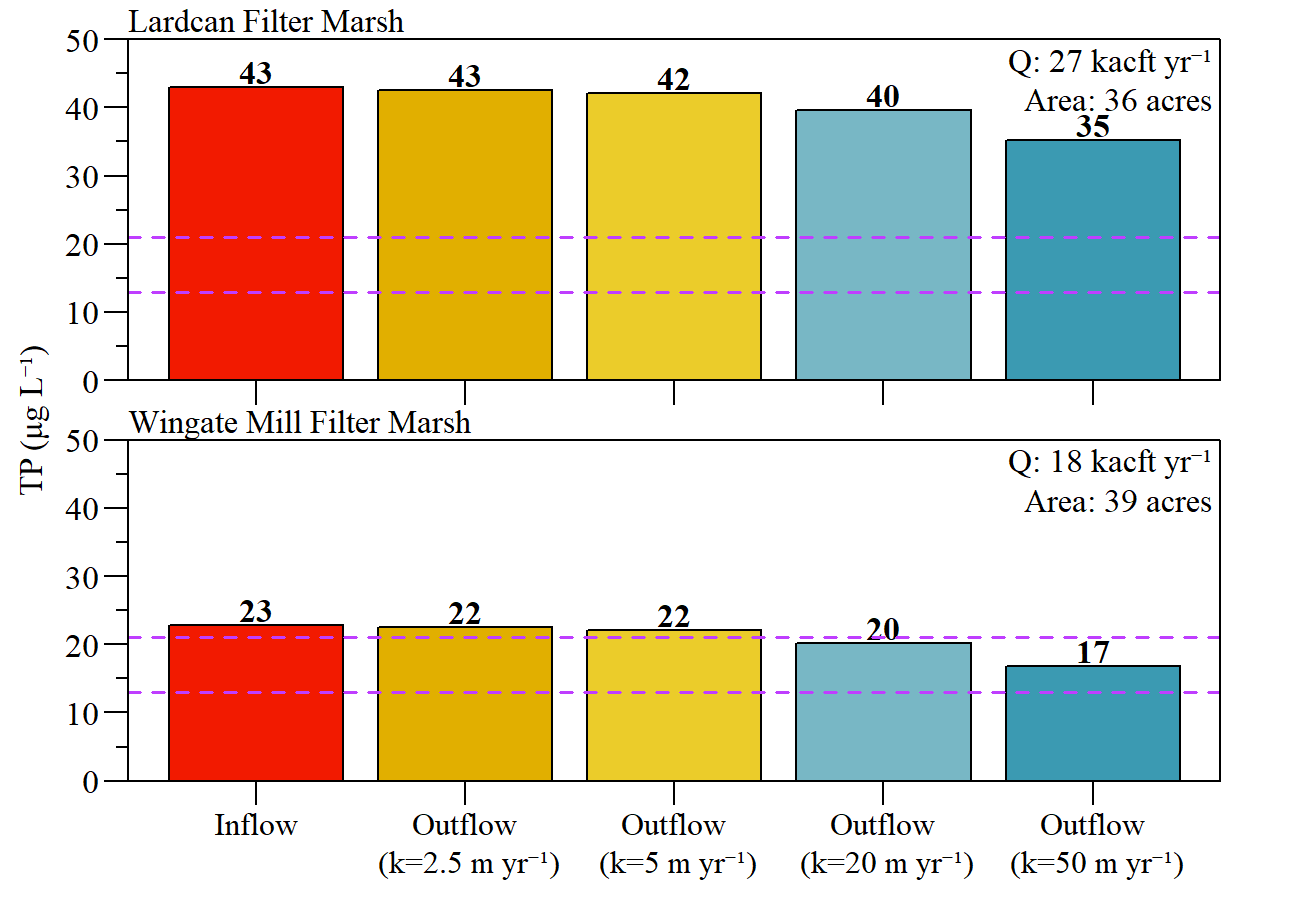
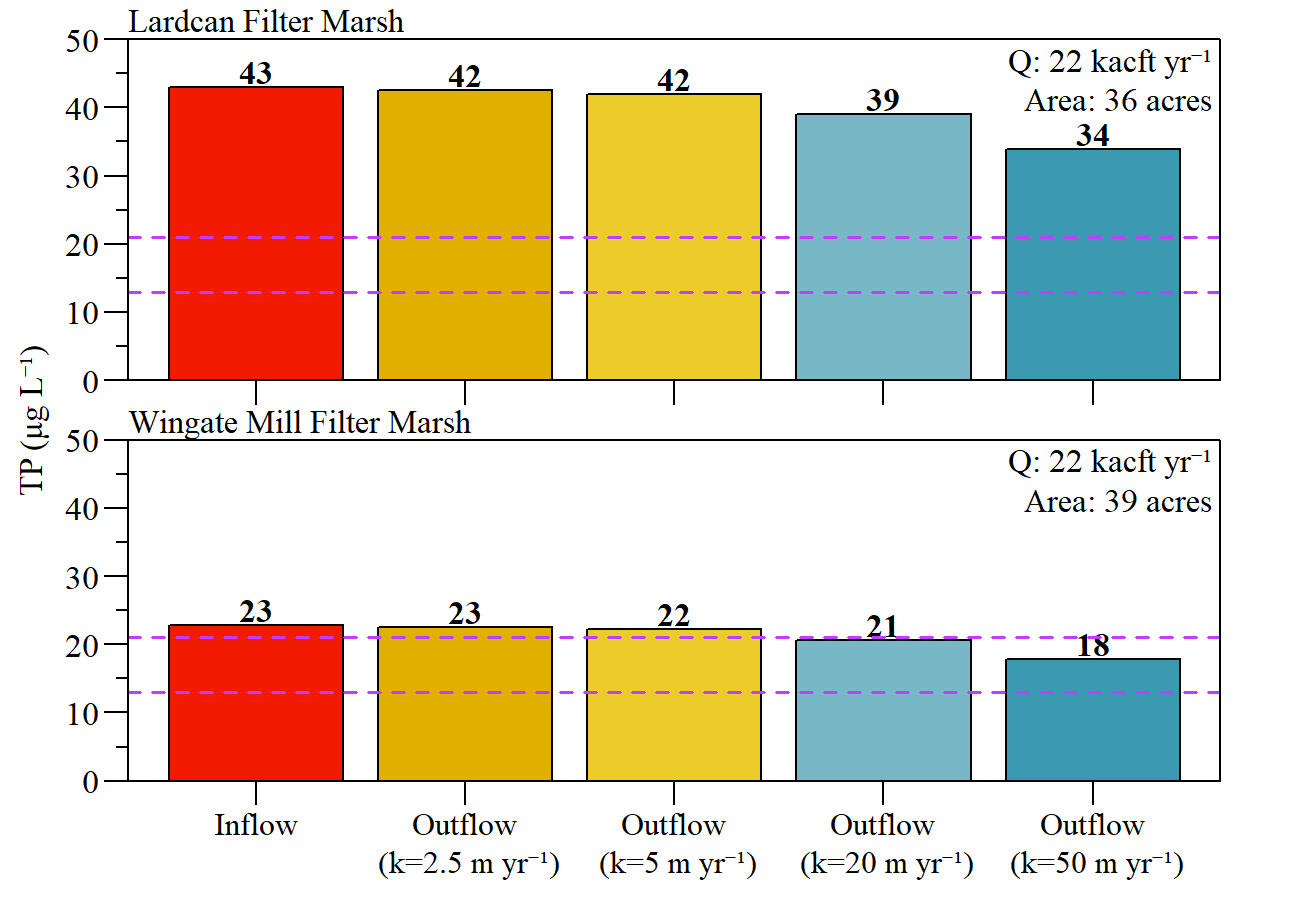
minor change

diff --git a/slides/20230117_WERP_Listening.html b/slides/20230117_WERP_Listening.html
@@ -39,7 +39,7 @@ class: left, middle
 
 *Conservancy of Southwest Florida*
 
-December 09, 2022 &lt;br&gt;(Updated: December 19, 2022 )
+December 09, 2022 &lt;br&gt;(Updated: December 20, 2022 )
 
 ]
 &lt;!-- this ends up being the title slide since seal = FALSE--&gt;
@@ -83,7 +83,7 @@ name: WFEEDERWQ
 * As detailed in *"Numeric Interpretation of Narrative Standards for the L-28 Interceptor Canal and Big Cypress National Preserve."* &lt;sup&gt;1&lt;/sup&gt; a numeric interpretation of the narrative water quality standard was developed for WERP to be protective of the downstream OFW (Big Cypress National Preserve).
 
 
-&lt;template id="f0b84952-d7ed-46c0-8ea0-a3a175d5d657"&gt;&lt;style&gt;
+&lt;template id="ba38e0f5-f11f-4750-94a1-c206eee9b0aa"&gt;&lt;style&gt;
 .tabwid table{
   border-collapse:collapse;
   line-height:1;
@@ -117,11 +117,11 @@ name: WFEEDERWQ
 .tabwid table tr {
 background-color: transparent;
 }
-&lt;/style&gt;&lt;div class="tabwid"&gt;&lt;style&gt;.cl-82f819e8{border-collapse:collapse;}.cl-82efd7b0{font-family:'Times New Roman';font-size:12pt;font-weight:normal;font-style:normal;text-decoration:none;color:rgba(0, 0, 0, 1.00);background-color:transparent;}.cl-82efd7b1{font-family:'Times New Roman';font-size:11pt;font-weight:normal;font-style:normal;text-decoration:none;color:rgba(0, 0, 0, 1.00);background-color:transparent;}.cl-82efd7b2{font-family:'Times New Roman';font-size:6.6pt;font-weight:normal;font-style:normal;text-decoration:none;color:rgba(0, 0, 0, 1.00);background-color:transparent;position: relative;bottom:3.3pt;}.cl-82efd7b3{font-family:'Arial';font-size:6.6pt;font-weight:normal;font-style:normal;text-decoration:none;color:rgba(0, 0, 0, 1.00);background-color:transparent;position: relative;bottom:3.3pt;}.cl-82efd7b4{font-family:'Arial';font-size:11pt;font-weight:normal;font-style:normal;text-decoration:none;color:rgba(0, 0, 0, 1.00);background-color:transparent;}.cl-82effed4{margin:0;text-align:left;border-bottom: 0 solid rgba(0, 0, 0, 1.00);border-top: 0 solid rgba(0, 0, 0, 1.00);border-left: 0 solid rgba(0, 0, 0, 1.00);border-right: 0 solid rgba(0, 0, 0, 1.00);padding-bottom:1.5pt;padding-top:1.5pt;padding-left:1.5pt;padding-right:1.5pt;line-height: 1;background-color:transparent;}.cl-82effed5{margin:0;text-align:center;border-bottom: 0 solid rgba(0, 0, 0, 1.00);border-top: 0 solid rgba(0, 0, 0, 1.00);border-left: 0 solid rgba(0, 0, 0, 1.00);border-right: 0 solid rgba(0, 0, 0, 1.00);padding-bottom:1.5pt;padding-top:1.5pt;padding-left:1.5pt;padding-right:1.5pt;line-height: 1;background-color:transparent;}.cl-82effed6{margin:0;text-align:left;border-bottom: 0 solid rgba(0, 0, 0, 1.00);border-top: 0 solid rgba(0, 0, 0, 1.00);border-left: 0 solid rgba(0, 0, 0, 1.00);border-right: 0 solid rgba(0, 0, 0, 1.00);padding-bottom:1.5pt;padding-top:1.5pt;padding-left:1.5pt;padding-right:1.5pt;line-height: 1;background-color:transparent;}.cl-82effed7{margin:0;text-align:center;border-bottom: 0 solid rgba(0, 0, 0, 1.00);border-top: 0 solid rgba(0, 0, 0, 1.00);border-left: 0 solid rgba(0, 0, 0, 1.00);border-right: 0 solid rgba(0, 0, 0, 1.00);padding-bottom:1.5pt;padding-top:1.5pt;padding-left:1.5pt;padding-right:1.5pt;line-height: 1;background-color:transparent;}.cl-82effed8{margin:0;text-align:left;border-bottom: 0 solid rgba(0, 0, 0, 1.00);border-top: 0 solid rgba(0, 0, 0, 1.00);border-left: 0 solid rgba(0, 0, 0, 1.00);border-right: 0 solid rgba(0, 0, 0, 1.00);padding-bottom:5pt;padding-top:5pt;padding-left:5pt;padding-right:5pt;line-height: 1;background-color:transparent;}.cl-82f02684{width:54pt;background-color:transparent;vertical-align: bottom;border-bottom: 0 solid rgba(0, 0, 0, 1.00);border-top: 0 solid rgba(0, 0, 0, 1.00);border-left: 0 solid rgba(0, 0, 0, 1.00);border-right: 0 solid rgba(0, 0, 0, 1.00);margin-bottom:0;margin-top:0;margin-left:0;margin-right:0;}.cl-82f02685{width:108pt;background-color:transparent;vertical-align: bottom;border-bottom: 0 solid rgba(0, 0, 0, 1.00);border-top: 0 solid rgba(0, 0, 0, 1.00);border-left: 0 solid rgba(0, 0, 0, 1.00);border-right: 0 solid rgba(0, 0, 0, 1.00);margin-bottom:0;margin-top:0;margin-left:0;margin-right:0;}.cl-82f02686{width:54pt;background-color:transparent;vertical-align: bottom;border-bottom: 2pt solid rgba(102, 102, 102, 1.00);border-top: 0 solid rgba(0, 0, 0, 1.00);border-left: 0 solid rgba(0, 0, 0, 1.00);border-right: 0 solid rgba(0, 0, 0, 1.00);margin-bottom:0;margin-top:0;margin-left:0;margin-right:0;}.cl-82f02687{width:108pt;background-color:transparent;vertical-align: bottom;border-bottom: 2pt solid rgba(102, 102, 102, 1.00);border-top: 0 solid rgba(0, 0, 0, 1.00);border-left: 0 solid rgba(0, 0, 0, 1.00);border-right: 0 solid rgba(0, 0, 0, 1.00);margin-bottom:0;margin-top:0;margin-left:0;margin-right:0;}.cl-82f02688{width:54pt;background-color:transparent;vertical-align: middle;border-bottom: 0 solid rgba(255, 255, 255, 0.00);border-top: 0 solid rgba(255, 255, 255, 0.00);border-left: 0 solid rgba(255, 255, 255, 0.00);border-right: 0 solid rgba(255, 255, 255, 0.00);margin-bottom:0;margin-top:0;margin-left:0;margin-right:0;}.cl-82f02689{width:108pt;background-color:transparent;vertical-align: middle;border-bottom: 0 solid rgba(255, 255, 255, 0.00);border-top: 0 solid rgba(255, 255, 255, 0.00);border-left: 0 solid rgba(255, 255, 255, 0.00);border-right: 0 solid rgba(255, 255, 255, 0.00);margin-bottom:0;margin-top:0;margin-left:0;margin-right:0;}.cl-82f0268a{width:108pt;background-color:transparent;vertical-align: middle;border-bottom: 2pt solid rgba(102, 102, 102, 1.00);border-top: 2pt solid rgba(102, 102, 102, 1.00);border-left: 0 solid rgba(0, 0, 0, 1.00);border-right: 0 solid rgba(0, 0, 0, 1.00);margin-bottom:0;margin-top:0;margin-left:0;margin-right:0;}.cl-82f0268b{width:54pt;background-color:transparent;vertical-align: middle;border-bottom: 2pt solid rgba(102, 102, 102, 1.00);border-top: 2pt solid rgba(102, 102, 102, 1.00);border-left: 0 solid rgba(0, 0, 0, 1.00);border-right: 0 solid rgba(0, 0, 0, 1.00);margin-bottom:0;margin-top:0;margin-left:0;margin-right:0;}&lt;/style&gt;&lt;table class='cl-82f819e8'&gt;&lt;thead&gt;&lt;tr style="overflow-wrap:break-word;"&gt;&lt;td class="cl-82f0268a"&gt;&lt;p class="cl-82effed4"&gt;&lt;span class="cl-82efd7b0"&gt; &lt;/span&gt;&lt;/p&gt;&lt;/td&gt;&lt;td class="cl-82f0268b"&gt;&lt;p class="cl-82effed5"&gt;&lt;span class="cl-82efd7b0"&gt;Total&lt;br&gt;Phosphorus&lt;br&gt;(μg L⁻¹)&lt;/span&gt;&lt;/p&gt;&lt;/td&gt;&lt;td class="cl-82f0268b"&gt;&lt;p class="cl-82effed5"&gt;&lt;span class="cl-82efd7b0"&gt;Total&lt;br&gt;Nitrogen&lt;br&gt;(mg L⁻¹)&lt;/span&gt;&lt;/p&gt;&lt;/td&gt;&lt;/tr&gt;&lt;/thead&gt;&lt;tbody&gt;&lt;tr style="overflow-wrap:break-word;"&gt;&lt;td class="cl-82f02685"&gt;&lt;p class="cl-82effed6"&gt;&lt;span class="cl-82efd7b1"&gt;Long-term (5-Year)&lt;/span&gt;&lt;span class="cl-82efd7b2"&gt; 1 &lt;/span&gt;&lt;span class="cl-82efd7b2"&gt; &lt;/span&gt;&lt;/p&gt;&lt;/td&gt;&lt;td class="cl-82f02684"&gt;&lt;p class="cl-82effed7"&gt;&lt;span class="cl-82efd7b1"&gt;13&lt;/span&gt;&lt;/p&gt;&lt;/td&gt;&lt;td class="cl-82f02684"&gt;&lt;p class="cl-82effed7"&gt;&lt;span class="cl-82efd7b1"&gt;1.00&lt;/span&gt;&lt;/p&gt;&lt;/td&gt;&lt;/tr&gt;&lt;tr style="overflow-wrap:break-word;"&gt;&lt;td class="cl-82f02687"&gt;&lt;p class="cl-82effed6"&gt;&lt;span class="cl-82efd7b1"&gt;Annual&lt;/span&gt;&lt;/p&gt;&lt;/td&gt;&lt;td class="cl-82f02686"&gt;&lt;p class="cl-82effed7"&gt;&lt;span class="cl-82efd7b1"&gt;21&lt;/span&gt;&lt;/p&gt;&lt;/td&gt;&lt;td class="cl-82f02686"&gt;&lt;p class="cl-82effed7"&gt;&lt;span class="cl-82efd7b1"&gt;1.24&lt;/span&gt;&lt;/p&gt;&lt;/td&gt;&lt;/tr&gt;&lt;/tbody&gt;&lt;tfoot&gt;&lt;tr style="overflow-wrap:break-word;"&gt;&lt;td  colspan="3"class="cl-82f02689"&gt;&lt;p class="cl-82effed8"&gt;&lt;span class="cl-82efd7b3"&gt; 1 &lt;/span&gt;&lt;span class="cl-82efd7b4"&gt;Long Term = Five (5) Florida Water Years (May - April).&lt;/span&gt;&lt;span class="cl-82efd7b4"&gt;; &lt;/span&gt;&lt;span class="cl-82efd7b3"&gt; &lt;/span&gt;&lt;span class="cl-82efd7b4"&gt;Average geomtric mean concentraion.&lt;/span&gt;&lt;/p&gt;&lt;/td&gt;&lt;/tr&gt;&lt;/tfoot&gt;&lt;/table&gt;&lt;/div&gt;&lt;/template&gt;
-&lt;div class="flextable-shadow-host" id="3c064ebb-1fdb-498e-bc87-8162cc2efa92"&gt;&lt;/div&gt;
+&lt;/style&gt;&lt;div class="tabwid"&gt;&lt;style&gt;.cl-ad000d4c{border-collapse:collapse;}.cl-acf51270{font-family:'Times New Roman';font-size:12pt;font-weight:normal;font-style:normal;text-decoration:none;color:rgba(0, 0, 0, 1.00);background-color:transparent;}.cl-acf51271{font-family:'Times New Roman';font-size:11pt;font-weight:normal;font-style:normal;text-decoration:none;color:rgba(0, 0, 0, 1.00);background-color:transparent;}.cl-acf51272{font-family:'Times New Roman';font-size:6.6pt;font-weight:normal;font-style:normal;text-decoration:none;color:rgba(0, 0, 0, 1.00);background-color:transparent;position: relative;bottom:3.3pt;}.cl-acf51273{font-family:'Arial';font-size:6.6pt;font-weight:normal;font-style:normal;text-decoration:none;color:rgba(0, 0, 0, 1.00);background-color:transparent;position: relative;bottom:3.3pt;}.cl-acf51274{font-family:'Arial';font-size:11pt;font-weight:normal;font-style:normal;text-decoration:none;color:rgba(0, 0, 0, 1.00);background-color:transparent;}.cl-acf53c32{margin:0;text-align:left;border-bottom: 0 solid rgba(0, 0, 0, 1.00);border-top: 0 solid rgba(0, 0, 0, 1.00);border-left: 0 solid rgba(0, 0, 0, 1.00);border-right: 0 solid rgba(0, 0, 0, 1.00);padding-bottom:1.5pt;padding-top:1.5pt;padding-left:1.5pt;padding-right:1.5pt;line-height: 1;background-color:transparent;}.cl-acf53c33{margin:0;text-align:center;border-bottom: 0 solid rgba(0, 0, 0, 1.00);border-top: 0 solid rgba(0, 0, 0, 1.00);border-left: 0 solid rgba(0, 0, 0, 1.00);border-right: 0 solid rgba(0, 0, 0, 1.00);padding-bottom:1.5pt;padding-top:1.5pt;padding-left:1.5pt;padding-right:1.5pt;line-height: 1;background-color:transparent;}.cl-acf53c34{margin:0;text-align:left;border-bottom: 0 solid rgba(0, 0, 0, 1.00);border-top: 0 solid rgba(0, 0, 0, 1.00);border-left: 0 solid rgba(0, 0, 0, 1.00);border-right: 0 solid rgba(0, 0, 0, 1.00);padding-bottom:1.5pt;padding-top:1.5pt;padding-left:1.5pt;padding-right:1.5pt;line-height: 1;background-color:transparent;}.cl-acf53c35{margin:0;text-align:center;border-bottom: 0 solid rgba(0, 0, 0, 1.00);border-top: 0 solid rgba(0, 0, 0, 1.00);border-left: 0 solid rgba(0, 0, 0, 1.00);border-right: 0 solid rgba(0, 0, 0, 1.00);padding-bottom:1.5pt;padding-top:1.5pt;padding-left:1.5pt;padding-right:1.5pt;line-height: 1;background-color:transparent;}.cl-acf53c36{margin:0;text-align:left;border-bottom: 0 solid rgba(0, 0, 0, 1.00);border-top: 0 solid rgba(0, 0, 0, 1.00);border-left: 0 solid rgba(0, 0, 0, 1.00);border-right: 0 solid rgba(0, 0, 0, 1.00);padding-bottom:5pt;padding-top:5pt;padding-left:5pt;padding-right:5pt;line-height: 1;background-color:transparent;}.cl-acf58d22{width:54pt;background-color:transparent;vertical-align: bottom;border-bottom: 0 solid rgba(0, 0, 0, 1.00);border-top: 0 solid rgba(0, 0, 0, 1.00);border-left: 0 solid rgba(0, 0, 0, 1.00);border-right: 0 solid rgba(0, 0, 0, 1.00);margin-bottom:0;margin-top:0;margin-left:0;margin-right:0;}.cl-acf58d23{width:108pt;background-color:transparent;vertical-align: bottom;border-bottom: 0 solid rgba(0, 0, 0, 1.00);border-top: 0 solid rgba(0, 0, 0, 1.00);border-left: 0 solid rgba(0, 0, 0, 1.00);border-right: 0 solid rgba(0, 0, 0, 1.00);margin-bottom:0;margin-top:0;margin-left:0;margin-right:0;}.cl-acf58d24{width:54pt;background-color:transparent;vertical-align: bottom;border-bottom: 2pt solid rgba(102, 102, 102, 1.00);border-top: 0 solid rgba(0, 0, 0, 1.00);border-left: 0 solid rgba(0, 0, 0, 1.00);border-right: 0 solid rgba(0, 0, 0, 1.00);margin-bottom:0;margin-top:0;margin-left:0;margin-right:0;}.cl-acf58d25{width:108pt;background-color:transparent;vertical-align: bottom;border-bottom: 2pt solid rgba(102, 102, 102, 1.00);border-top: 0 solid rgba(0, 0, 0, 1.00);border-left: 0 solid rgba(0, 0, 0, 1.00);border-right: 0 solid rgba(0, 0, 0, 1.00);margin-bottom:0;margin-top:0;margin-left:0;margin-right:0;}.cl-acf58d26{width:54pt;background-color:transparent;vertical-align: middle;border-bottom: 0 solid rgba(255, 255, 255, 0.00);border-top: 0 solid rgba(255, 255, 255, 0.00);border-left: 0 solid rgba(255, 255, 255, 0.00);border-right: 0 solid rgba(255, 255, 255, 0.00);margin-bottom:0;margin-top:0;margin-left:0;margin-right:0;}.cl-acf58d27{width:108pt;background-color:transparent;vertical-align: middle;border-bottom: 0 solid rgba(255, 255, 255, 0.00);border-top: 0 solid rgba(255, 255, 255, 0.00);border-left: 0 solid rgba(255, 255, 255, 0.00);border-right: 0 solid rgba(255, 255, 255, 0.00);margin-bottom:0;margin-top:0;margin-left:0;margin-right:0;}.cl-acf58d28{width:108pt;background-color:transparent;vertical-align: middle;border-bottom: 2pt solid rgba(102, 102, 102, 1.00);border-top: 2pt solid rgba(102, 102, 102, 1.00);border-left: 0 solid rgba(0, 0, 0, 1.00);border-right: 0 solid rgba(0, 0, 0, 1.00);margin-bottom:0;margin-top:0;margin-left:0;margin-right:0;}.cl-acf58d29{width:54pt;background-color:transparent;vertical-align: middle;border-bottom: 2pt solid rgba(102, 102, 102, 1.00);border-top: 2pt solid rgba(102, 102, 102, 1.00);border-left: 0 solid rgba(0, 0, 0, 1.00);border-right: 0 solid rgba(0, 0, 0, 1.00);margin-bottom:0;margin-top:0;margin-left:0;margin-right:0;}&lt;/style&gt;&lt;table class='cl-ad000d4c'&gt;&lt;thead&gt;&lt;tr style="overflow-wrap:break-word;"&gt;&lt;td class="cl-acf58d28"&gt;&lt;p class="cl-acf53c32"&gt;&lt;span class="cl-acf51270"&gt; &lt;/span&gt;&lt;/p&gt;&lt;/td&gt;&lt;td class="cl-acf58d29"&gt;&lt;p class="cl-acf53c33"&gt;&lt;span class="cl-acf51270"&gt;Total&lt;br&gt;Phosphorus&lt;br&gt;(μg L⁻¹)&lt;/span&gt;&lt;/p&gt;&lt;/td&gt;&lt;td class="cl-acf58d29"&gt;&lt;p class="cl-acf53c33"&gt;&lt;span class="cl-acf51270"&gt;Total&lt;br&gt;Nitrogen&lt;br&gt;(mg L⁻¹)&lt;/span&gt;&lt;/p&gt;&lt;/td&gt;&lt;/tr&gt;&lt;/thead&gt;&lt;tbody&gt;&lt;tr style="overflow-wrap:break-word;"&gt;&lt;td class="cl-acf58d23"&gt;&lt;p class="cl-acf53c34"&gt;&lt;span class="cl-acf51271"&gt;Long-term (5-Year)&lt;/span&gt;&lt;span class="cl-acf51272"&gt; 1 &lt;/span&gt;&lt;span class="cl-acf51272"&gt; &lt;/span&gt;&lt;/p&gt;&lt;/td&gt;&lt;td class="cl-acf58d22"&gt;&lt;p class="cl-acf53c35"&gt;&lt;span class="cl-acf51271"&gt;13&lt;/span&gt;&lt;/p&gt;&lt;/td&gt;&lt;td class="cl-acf58d22"&gt;&lt;p class="cl-acf53c35"&gt;&lt;span class="cl-acf51271"&gt;1.00&lt;/span&gt;&lt;/p&gt;&lt;/td&gt;&lt;/tr&gt;&lt;tr style="overflow-wrap:break-word;"&gt;&lt;td class="cl-acf58d25"&gt;&lt;p class="cl-acf53c34"&gt;&lt;span class="cl-acf51271"&gt;Annual&lt;/span&gt;&lt;/p&gt;&lt;/td&gt;&lt;td class="cl-acf58d24"&gt;&lt;p class="cl-acf53c35"&gt;&lt;span class="cl-acf51271"&gt;21&lt;/span&gt;&lt;/p&gt;&lt;/td&gt;&lt;td class="cl-acf58d24"&gt;&lt;p class="cl-acf53c35"&gt;&lt;span class="cl-acf51271"&gt;1.24&lt;/span&gt;&lt;/p&gt;&lt;/td&gt;&lt;/tr&gt;&lt;/tbody&gt;&lt;tfoot&gt;&lt;tr style="overflow-wrap:break-word;"&gt;&lt;td  colspan="3"class="cl-acf58d27"&gt;&lt;p class="cl-acf53c36"&gt;&lt;span class="cl-acf51273"&gt; 1 &lt;/span&gt;&lt;span class="cl-acf51274"&gt;Long Term = Five (5) Florida Water Years (May - April).&lt;/span&gt;&lt;span class="cl-acf51274"&gt;; &lt;/span&gt;&lt;span class="cl-acf51273"&gt; &lt;/span&gt;&lt;span class="cl-acf51274"&gt;Average geomtric mean concentraion.&lt;/span&gt;&lt;/p&gt;&lt;/td&gt;&lt;/tr&gt;&lt;/tfoot&gt;&lt;/table&gt;&lt;/div&gt;&lt;/template&gt;
+&lt;div class="flextable-shadow-host" id="50d796ef-4627-4c0c-9314-2155627e399c"&gt;&lt;/div&gt;
 &lt;script&gt;
-var dest = document.getElementById("3c064ebb-1fdb-498e-bc87-8162cc2efa92");
-var template = document.getElementById("f0b84952-d7ed-46c0-8ea0-a3a175d5d657");
+var dest = document.getElementById("50d796ef-4627-4c0c-9314-2155627e399c");
+var template = document.getElementById("ba38e0f5-f11f-4750-94a1-c206eee9b0aa");
 var caption = template.content.querySelector("caption");
 if(caption) {
   caption.style.cssText = "display:block;text-align:center;";
@@ -250,7 +250,7 @@ q = HLR (m/d)
 
 k-values within range of current STAs - [summary](#STA_k)
 
-Average Q based on difference between WECB and ALTHR ([summary](#averageQ)) and a 60:40 split between Lardcan and Wingate mill canals
+Average Q based on difference between WECB and ALTHR ([summary](#averageQ)) and a 50:50 split between Lardcan and Wingate mill canals
 
 
 
